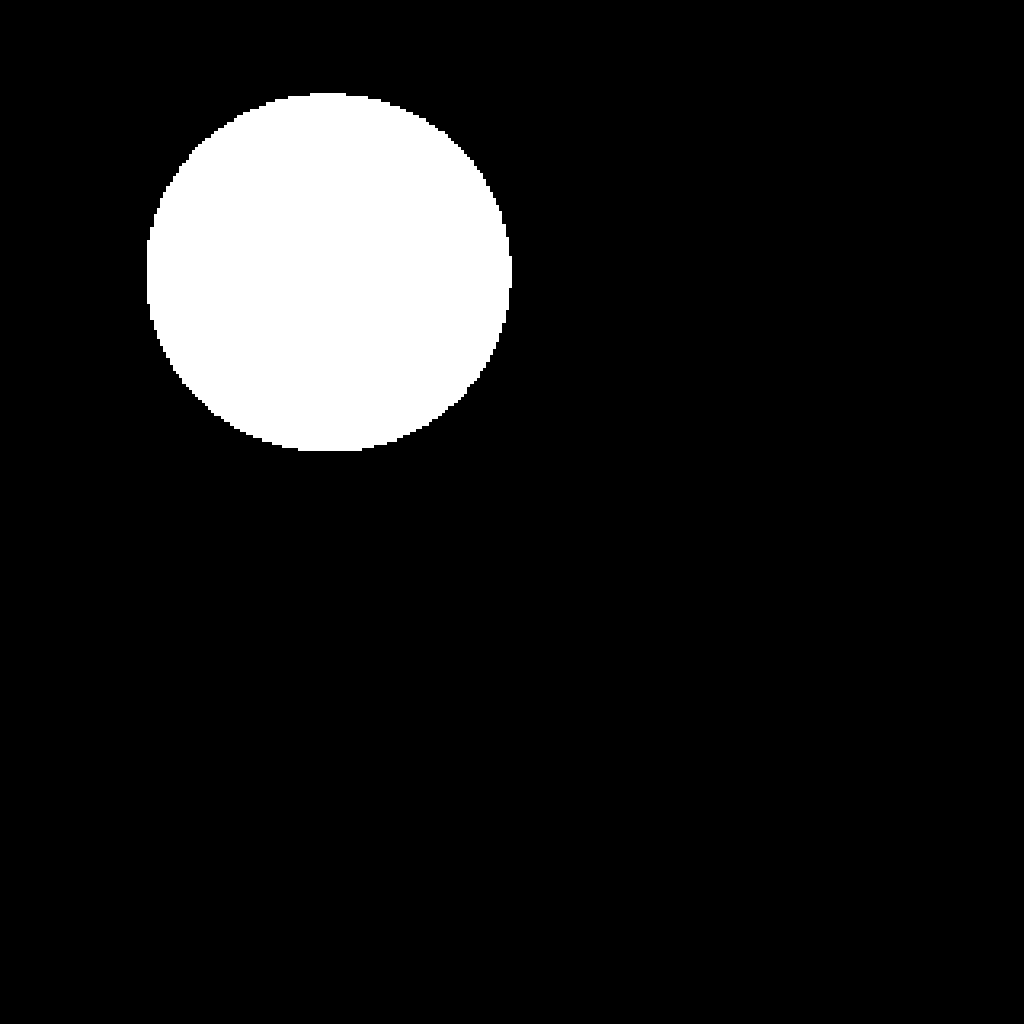
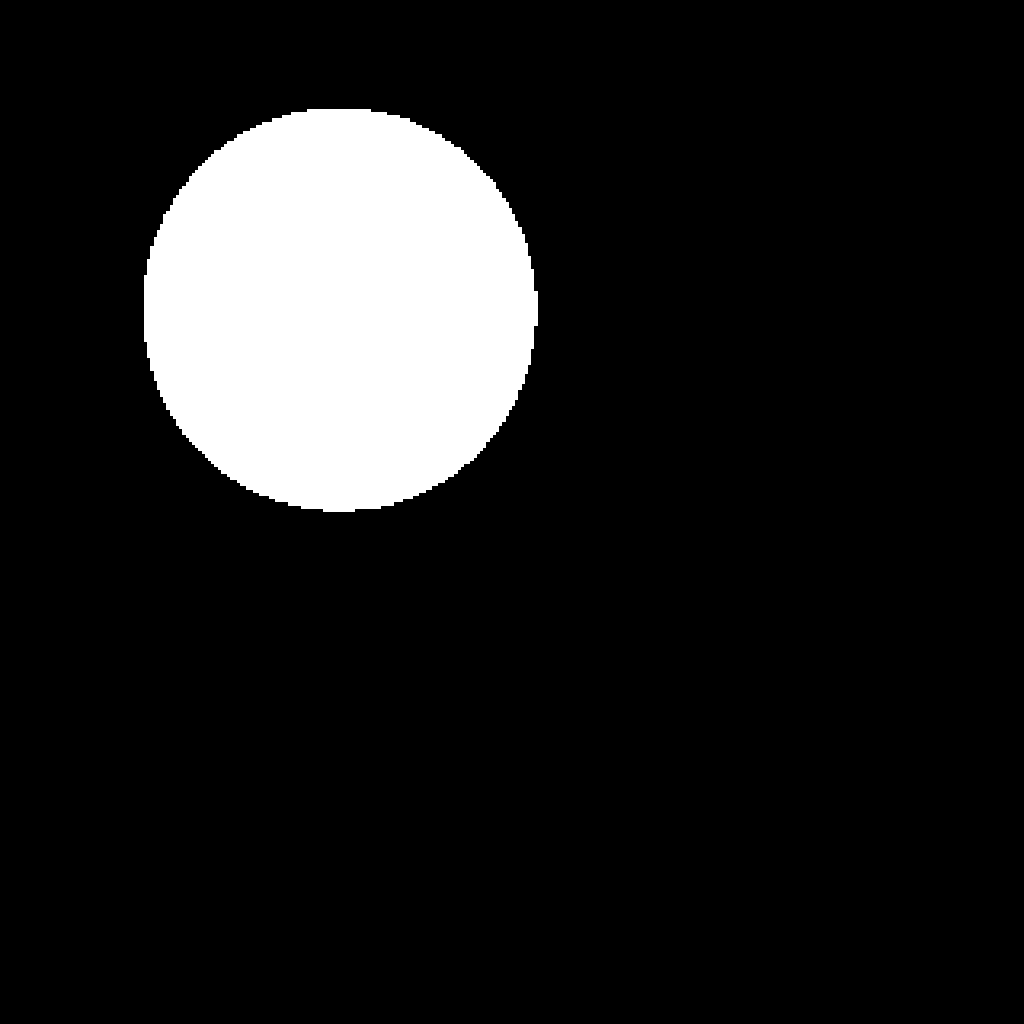
feat: Remove unnecessary console logs and improve error handling in various components

diff --git a/frontend/src/components/CanvasDisplay.tsx b/frontend/src/components/CanvasDisplay.tsx
@@ -96,7 +96,6 @@ export default function CanvasDisplay({
     const img = new Image();
     img.onload = () => {
       if (img.width === 0 || img.height === 0) {
-        console.error("Image has zero dimensions:", image.name);
         if (onError) onError(`Image has zero dimensions: ${image.name}`);
         return;
       }
@@ -121,9 +120,6 @@ export default function CanvasDisplay({
       canvas.width = displayWidth;
       canvas.height = displayHeight;
       
-      console.log(`EDITOR DEBUG: Canvas set to display size: ${canvas.width}x${canvas.height} (from original ${img.width}x${img.height})`);
-      console.log(`EDITOR DEBUG: Canvas element rect:`, canvas.getBoundingClientRect());
-      
       ctx.clearRect(0, 0, canvas.width, canvas.height);
       ctx.drawImage(img, 0, 0, canvas.width, canvas.height);
 
@@ -138,7 +134,7 @@ export default function CanvasDisplay({
           try {
             existingMaskData = maskCtx.getImageData(0, 0, oldWidth, oldHeight);
           } catch (e) {
-            console.log("Could not preserve existing mask data:", e);
+            // Could not preserve existing mask data
           }
         }
         
@@ -146,15 +142,11 @@ export default function CanvasDisplay({
         maskCanvasRef.current.width = canvas.width;
         maskCanvasRef.current.height = canvas.height;
         
-        console.log(`Mask canvas set to: ${canvas.width}x${canvas.height}`);
-        
         // If we have existing mask data and the canvas size hasn't changed, restore it
         if (existingMaskData && oldWidth === canvas.width && oldHeight === canvas.height && maskCtx) {
           try {
             maskCtx.putImageData(existingMaskData, 0, 0);
-            console.log("Restored existing mask data");
           } catch (e) {
-            console.log("Failed to restore mask data:", e);
             maskCtx.clearRect(0, 0, canvas.width, canvas.height);
           }
         } else if (maskCtx) {
@@ -166,7 +158,6 @@ export default function CanvasDisplay({
       }
     };
     img.onerror = () => {
-      console.error("Failed to load image:", image.name);
       if (onError) onError(`Failed to load image: ${image.name}`);
     };
 
@@ -186,7 +177,6 @@ export default function CanvasDisplay({
       x: event.clientX - rect.left,
       y: event.clientY - rect.top,
     };
-    console.log(`Coords: click(${event.clientX},${event.clientY}) -> canvas(${coords.x},${coords.y}), rect: ${rect.left},${rect.top}`);
     return coords;
   }, []);
 
@@ -237,58 +227,10 @@ export default function CanvasDisplay({
     }
   }, [isDrawing, handleMouseUp]);
 
-  // Helper function to debug mask data
-  const debugMask = useCallback(async (maskBlob: Blob) => {
-    console.log('=== MASK DEBUG INFO ===');
-    console.log('Mask blob size:', maskBlob.size, 'bytes');
-    console.log('Mask blob type:', maskBlob.type);
-    
-    // Create a debug canvas to visualize the mask
-    const debugCanvas = document.createElement('canvas');
-    const img = new Image();
-    const url = URL.createObjectURL(maskBlob);
-    
-    return new Promise<void>((resolve) => {
-      img.onload = () => {
-        debugCanvas.width = img.width;
-        debugCanvas.height = img.height;
-        const ctx = debugCanvas.getContext('2d');
-        if (ctx) {
-          ctx.drawImage(img, 0, 0);
-          const imageData = ctx.getImageData(0, 0, img.width, img.height);
-          const data = imageData.data;
-          
-          let transparentPixels = 0;
-          let opaquePixels = 0;
-          let semiTransparentPixels = 0;
-          
-          for (let i = 3; i < data.length; i += 4) {
-            const alpha = data[i];
-            if (alpha === 0) transparentPixels++;
-            else if (alpha === 255) opaquePixels++;
-            else semiTransparentPixels++;
-          }
-          
-          console.log('Mask analysis:');
-          console.log('- Transparent pixels (edit areas):', transparentPixels);
-          console.log('- Opaque pixels (preserve areas):', opaquePixels);
-          console.log('- Semi-transparent pixels:', semiTransparentPixels);
-          console.log('- Total pixels:', data.length / 4);
-          console.log('- Edit area ratio:', (transparentPixels / (data.length / 4) * 100).toFixed(2) + '%');
-        }
-        URL.revokeObjectURL(url);
-        resolve();
-      };
-      img.src = url;
-    });
-  }, []);
-
   // Convert mask canvas to proper RGBA format for OpenAI
   const convertMaskToRGBA = useCallback(async (canvas: HTMLCanvasElement): Promise<Blob | null> => {
     const ctx = canvas.getContext('2d');
     if (!ctx || !originalImageSize) return null;
-    
-    console.log(`Converting mask canvas ${canvas.width}x${canvas.height} to RGBA format for original size ${originalImageSize.width}x${originalImageSize.height}`);
     
     // Create a canvas at the original image size for the final mask
     const fullSizeCanvas = document.createElement('canvas');
@@ -333,8 +275,6 @@ export default function CanvasDisplay({
       }
     }
     
-    console.log(`Mask conversion: ${drawnPixels} drawn pixels out of ${data.length / 4} total pixels at original resolution`);
-    
     // Create a temporary canvas to render the RGBA mask at original size
     const tempCanvas = document.createElement('canvas');
     tempCanvas.width = originalImageSize.width;
@@ -360,28 +300,13 @@ export default function CanvasDisplay({
     onProcessingStart?.(); // Notify parent that processing has started
     try {
       // Convert mask to proper RGBA format for OpenAI
-      console.log('Converting mask to RGBA format...');
       const maskBlob = await convertMaskToRGBA(maskCanvasRef.current);
-      
-      // Debug the mask before sending
-      if (maskBlob) {
-        await debugMask(maskBlob);
-      }
-      
-      // Debug mask data before sending
-      await debugMask(maskBlob!);
       
       // Use the original image file, not the scaled canvas version
       // The OpenAI API expects the mask to match the original image dimensions
       const maskFile = maskBlob
         ? new File([maskBlob], 'mask.png', { type: 'image/png' })
         : undefined;
-      
-      console.log('Submitting to OpenAI with:', {
-        originalImageSize: image.size,
-        maskSize: maskFile?.size,
-        hasMask: !!maskFile
-      });
       
       const result = await editImage(image, prompt || 'Edit', maskFile);
       setEta(result.eta_seconds ?? null);
@@ -397,7 +322,7 @@ export default function CanvasDisplay({
     } finally {
       setSubmitting(false);
     }
-  }, [image, maskCanvasRef, baseRef, isMaskCanvasInitialized, prompt, onRequestId, onError, convertMaskToRGBA, debugMask]);
+  }, [image, maskCanvasRef, baseRef, isMaskCanvasInitialized, prompt, onRequestId, onError, convertMaskToRGBA]);
 
   // Update the ref whenever handleSubmit changes
   useEffect(() => {

diff --git a/frontend/src/pages/HomePage.tsx b/frontend/src/pages/HomePage.tsx
@@ -67,7 +67,6 @@ export default function HomePage({ image, prompt, onSubmitReady, onResult, onErr
     
     const poll = async () => {
       if (pollCount >= maxPolls) {
-        console.log('Polling timeout reached');
         if (!cancelled) {
           onError?.('Request timed out after 3 minutes');
           setRequestId(null);
@@ -79,18 +78,13 @@ export default function HomePage({ image, prompt, onSubmitReady, onResult, onErr
       
       try {
         const status = await fetchEditStatus(requestId);
-        console.log(`Polling status response (attempt ${pollCount}/${maxPolls}):`, status);
         
         if (status.status === 'completed') {
-          console.log('Status is completed, checking result structure...');
-          console.log('Result:', status.result);
           
           const resultData = status.result?.data?.[0];
           if (resultData?.url) {
-            console.log('Found URL, downloading via backend proxy...');
             try {
               const blob = await downloadResultImage(requestId);
-              console.log('Successfully downloaded image via proxy, blob size:', blob.size);
               
               const file = new File([blob], 'result.png', { type: 'image/png' });
               if (!cancelled) {
@@ -98,13 +92,10 @@ export default function HomePage({ image, prompt, onSubmitReady, onResult, onErr
                 setRequestId(null); // Clear request ID after successful completion
               }
             } catch (downloadError) {
-              console.error('Failed to download via proxy, trying direct fetch...', downloadError);
-              
               // Fallback to direct fetch
               try {
                 await new Promise(resolve => setTimeout(resolve, 1000));
                 
-                console.log('Fetching image directly from URL...');
                 const res = await fetch(resultData.url, {
                   mode: 'cors',
                   credentials: 'omit'
@@ -114,9 +105,7 @@ export default function HomePage({ image, prompt, onSubmitReady, onResult, onErr
                   throw new Error(`HTTP ${res.status}: ${res.statusText}`);
                 }
                 
-                console.log('Successfully fetched image directly, creating blob...');
                 const blob = await res.blob();
-                console.log('Blob created, size:', blob.size);
                 
                 const file = new File([blob], 'result.png', { type: 'image/png' });
                 if (!cancelled) {
@@ -124,12 +113,6 @@ export default function HomePage({ image, prompt, onSubmitReady, onResult, onErr
                   setRequestId(null);
                 }
               } catch (fetchError) {
-                console.error('Direct fetch also failed:', fetchError);
-                console.error('Error details:', {
-                  message: fetchError.message,
-                  stack: fetchError.stack,
-                  url: resultData.url
-                });
                 if (!cancelled) {
                   onError?.(`Failed to download the generated image: ${fetchError.message}`);
                   setRequestId(null);
@@ -137,7 +120,6 @@ export default function HomePage({ image, prompt, onSubmitReady, onResult, onErr
               }
             }
           } else if (resultData?.b64_json) {
-            console.log('Found base64 data, converting to file...');
             try {
               const binaryString = atob(resultData.b64_json);
               const bytes = new Uint8Array(binaryString.length);
@@ -151,34 +133,30 @@ export default function HomePage({ image, prompt, onSubmitReady, onResult, onErr
                 setRequestId(null);
               }
             } catch (b64Error) {
-              console.error('Failed to process base64 image:', b64Error);
               if (!cancelled) {
                 onError?.('Failed to process the generated image data');
                 setRequestId(null);
               }
             }
           } else {
-            console.error('Completed but no URL or base64 data found in result:', status.result);
             if (!cancelled) {
               onError?.('Image processing completed but no result data found');
               setRequestId(null);
             }
           }
         } else if (status.status === 'error') {
-          console.log('Status is error:', status.error);
           if (!cancelled) {
             onError?.(status.error || 'Processing failed');
             setRequestId(null); // Clear request ID after error
           }
         } else {
-          console.log(`Status is ${status.status}, continuing to poll... (${pollCount}/${maxPolls})`);
+          // Status is still processing, continue polling
         }
       } catch (err) {
         if (!cancelled) {
           const errorMessage = (err as Error).message;
           // If the request ID is not found (404), clear it and stop polling
           if (errorMessage.includes('404') || errorMessage.includes('Not Found')) {
-            console.log('Request ID not found, clearing polling');
             setRequestId(null);
           } else {
             onError?.(errorMessage);
@@ -196,7 +174,6 @@ export default function HomePage({ image, prompt, onSubmitReady, onResult, onErr
 
   useEffect(() => {
     if (image && prompt) {
-      console.log("HomePage received image and prompt, ready to generate if requested.");
       // Clear any previous request ID when new image/prompt is provided
       setRequestId(null);
     }

diff --git a/frontend/src/hooks/useCanvas.ts b/frontend/src/hooks/useCanvas.ts
@@ -27,7 +27,6 @@ export default function useCanvas() {
     
     // Don't reinitialize if already initialized with the same size
     if (isInitialized && canvas.width === width && canvas.height === height) {
-      console.log("Canvas already initialized with correct size, skipping reinitialization");
       return;
     }
     
@@ -48,9 +47,7 @@ export default function useCanvas() {
         history.current = [initialImageData];
         setHistoryIndex(0);
         setIsInitialized(true);
-        console.log(`Canvas initialized with size ${width}x${height}`);
       } catch (e) {
-        console.error("Failed to get ImageData for history initialization:", e);
         setIsInitialized(false);
       }
     }
@@ -72,7 +69,7 @@ export default function useCanvas() {
       history.current = newHistory;
       setHistoryIndex(newHistory.length - 1);
     } catch (e) {
-      console.error("Failed to save canvas state:", e);
+      // Failed to save canvas state
     }
   }, [isInitialized, getContext, historyIndex]);
 
@@ -94,7 +91,7 @@ export default function useCanvas() {
       ctx.putImageData(prevState, 0, 0);
       setHistoryIndex(prevIndex => prevIndex - 1);
     } catch (e) {
-      console.error("Failed to undo:", e);
+      // Failed to undo
     }
   }, [isInitialized, getContext, historyIndex]);
 
@@ -108,7 +105,7 @@ export default function useCanvas() {
       ctx.putImageData(nextState, 0, 0);
       setHistoryIndex(prevIndex => prevIndex + 1);
     } catch (e) {
-      console.error("Failed to redo:", e);
+      // Failed to redo
     }
   }, [isInitialized, getContext, historyIndex]);
 

diff --git a/frontend/src/App.tsx b/frontend/src/App.tsx
@@ -13,12 +13,10 @@ function App() {
 
   const handleFileSelected = (file: File | null) => {
     setImageFile(file);
-    console.log("File selected in App:", file?.name);
   };
 
   const handlePromptSubmit = (prompt: string) => {
     setTextPrompt(prompt);
-    console.log("Prompt submitted in App:", prompt);
   };
 
   const handleSubmitReady = (handler: () => Promise<void>) => {
@@ -49,7 +47,6 @@ function App() {
         handleProcessingStart(); // Start processing indicator
         await submitHandlerRef.current();
       } catch (error) {
-        console.error('Generation failed:', error);
         setIsProcessing(false); // Stop processing on error
       }
     }